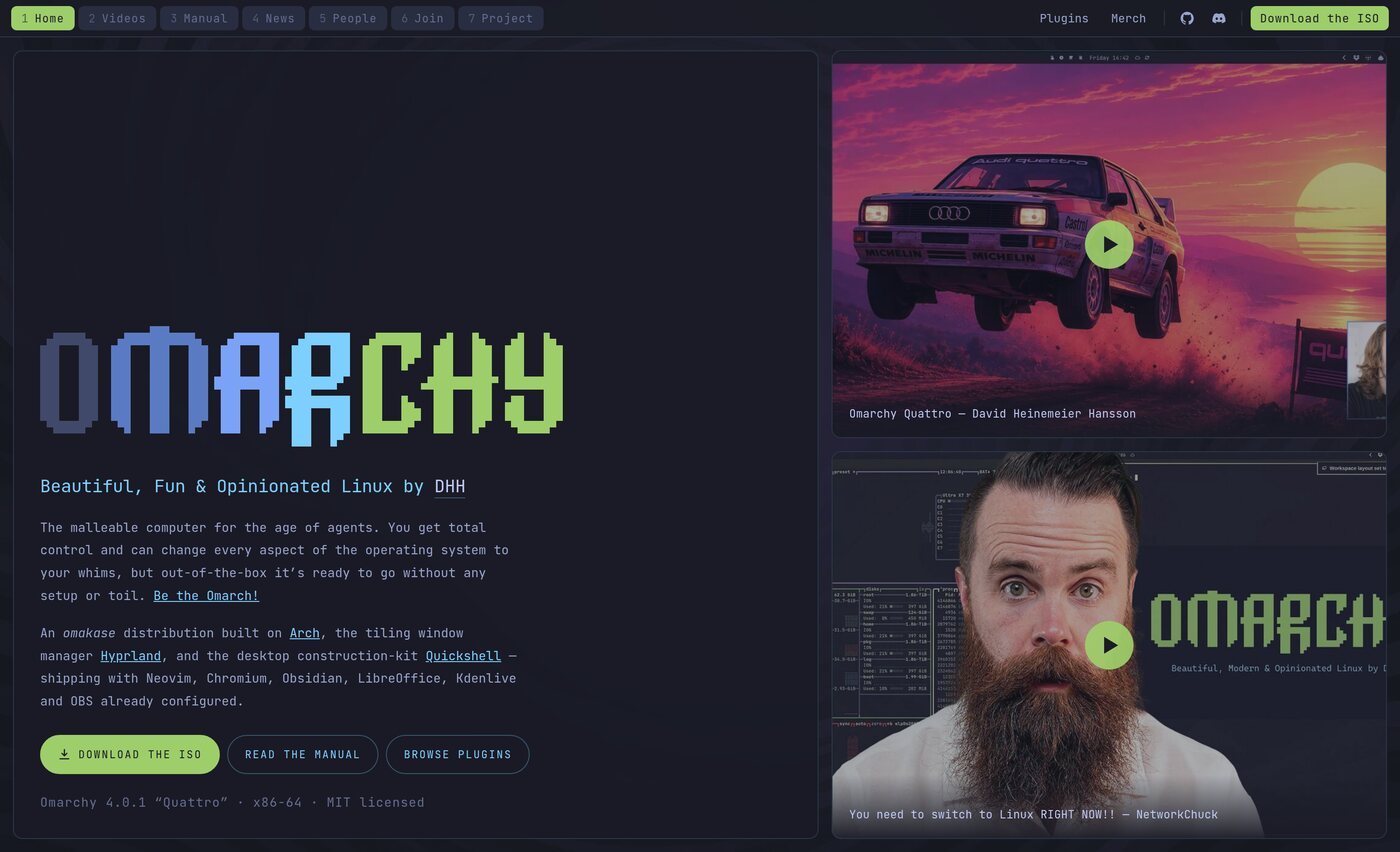
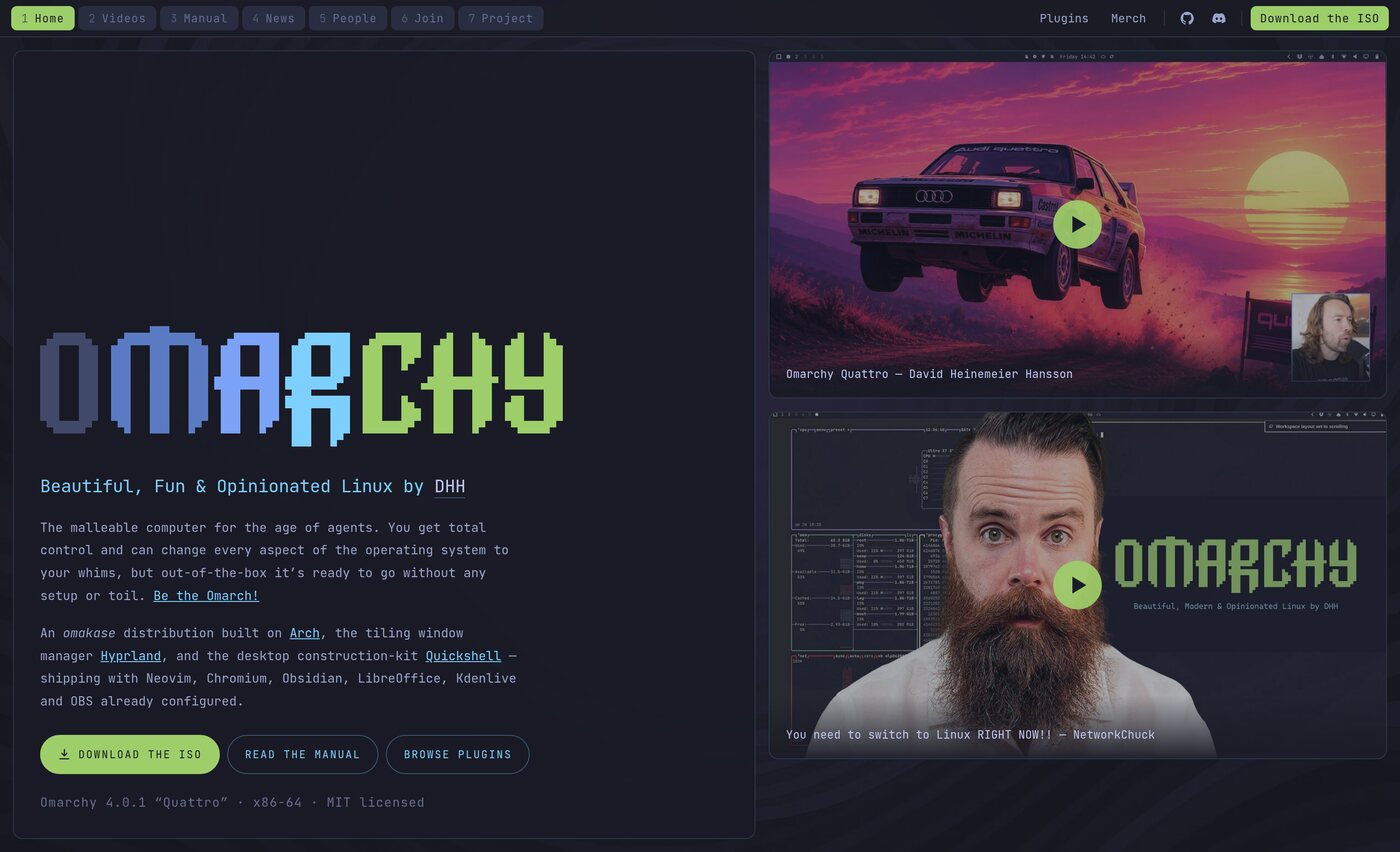
Home videos keep their 16:9 instead of being cropped
The panes were 2.8:1 against 16:9 thumbnails, so object-fit:cover was cutting
36% off the top and bottom of both. The videos now stack in their own column
with an explicit aspect ratio, and the hero fills beside them rather than
dictating their height.

Changed region(s): [[0.5221, 0.061, 1.0, 1.0], [0.9521, 0.5493, 0.9829, 0.5798]]

diff --git a/index.html b/index.html
@@ -54,7 +54,7 @@
 <!-- ======================= 1 · HOME ======================= -->
 <section class="workspace on" id="ws-home" data-ws="home">
 
-  <article class="win hero" style="grid-row:span 2">
+  <article class="win hero">
     <h1 class="mark"><svg class="bigmark" viewBox="0 0 4131 950" role="img" aria-label="Omarchy" shape-rendering="crispEdges"><g fill="var(--mk-1)"><rect x="102" y="50" width="255" height="50"/><rect x="51" y="100" width="357" height="50"/><rect x="0" y="150" width="153" height="50"/><rect x="306" y="150" width="153" height="50"/><rect x="0" y="200" width="153" height="50"/><rect x="306" y="200" width="153" height="50"/><rect x="0" y="250" width="153" height="50"/><rect x="306" y="250" width="153" height="50"/><rect x="0" y="300" width="153" height="50"/><rect x="306" y="300" width="153" height="50"/><rect x="0" y="350" width="153" height="50"/><rect x="306" y="350" width="153" height="50"/><rect x="0" y="400" width="153" height="50"/><rect x="306" y="400" width="153" height="50"/><rect x="0" y="450" width="153" height="50"/><rect x="306" y="450" width="153" height="50"/><rect x="0" y="500" width="153" height="50"/><rect x="306" y="500" width="153" height="50"/><rect x="0" y="550" width="153" height="50"/><rect x="306" y="550" width="153" height="50"/><rect x="0" y="600" width="153" height="50"/><rect x="306" y="600" width="153" height="50"/><rect x="0" y="650" width="153" height="50"/><rect x="306" y="650" width="153" height="50"/><rect x="0" y="700" width="153" height="50"/><rect x="306" y="700" width="153" height="50"/><rect x="51" y="750" width="357" height="50"/><rect x="102" y="800" width="255" height="50"/></g><g fill="var(--mk-2)"><rect x="867" y="0" width="153" height="50"/><rect x="663" y="50" width="561" height="50"/><rect x="612" y="100" width="663" height="50"/><rect x="561" y="150" width="153" height="50"/><rect x="867" y="150" width="153" height="50"/><rect x="1173" y="150" width="153" height="50"/><rect x="561" y="200" width="153" height="50"/><rect x="867" y="200" width="153" height="50"/><rect x="1173" y="200" width="153" height="50"/><rect x="561" y="250" width="153" height="50"/><rect x="867" y="250" width="153" height="50"/><rect x="1173" y="250" width="153" height="50"/><rect x="561" y="300" width="153" height="50"/><rect x="867" y="300" width="153" height="50"/><rect x="1173" y="300" width="153" height="50"/><rect x="561" y="350" width="153" height="50"/><rect x="867" y="350" width="153" height="50"/><rect x="1173" y="350" width="153" height="50"/><rect x="561" y="400" width="153" height="50"/><rect x="867" y="400" width="153" height="50"/><rect x="1173" y="400" width="153" height="50"/><rect x="561" y="450" width="153" height="50"/><rect x="867" y="450" width="153" height="50"/><rect x="1173" y="450" width="153" height="50"/><rect x="561" y="500" width="153" height="50"/><rect x="867" y="500" width="153" height="50"/><rect x="1173" y="500" width="153" height="50"/><rect x="561" y="550" width="153" height="50"/><rect x="867" y="550" width="153" height="50"/><rect x="1173" y="550" width="153" height="50"/><rect x="561" y="600" width="153" height="50"/><rect x="867" y="600" width="153" height="50"/><rect x="1173" y="600" width="153" height="50"/><rect x="561" y="650" width="153" height="50"/><rect x="867" y="650" width="153" height="50"/><rect x="1173" y="650" width="153" height="50"/><rect x="561" y="700" width="153" height="50"/><rect x="867" y="700" width="153" height="50"/><rect x="1173" y="700" width="153" height="50"/><rect x="612" y="750" width="102" height="50"/><rect x="867" y="750" width="153" height="50"/><rect x="1173" y="750" width="102" height="50"/><rect x="663" y="800" width="51" height="50"/><rect x="867" y="800" width="153" height="50"/><rect x="1173" y="800" width="51" height="50"/></g><g fill="var(--mk-3)"><rect x="1530" y="50" width="357" height="50"/><rect x="1479" y="100" width="408" height="50"/><rect x="1428" y="150" width="153" height="50"/><rect x="1734" y="150" width="153" height="50"/><rect x="1428" y="200" width="153" height="50"/><rect x="1734" y="200" width="153" height="50"/><rect x="1428" y="250" width="153" height="50"/><rect x="1734" y="250" width="153" height="50"/><rect x="1428" y="300" width="153" height="50"/><rect x="1734" y="300" width="153" height="50"/><rect x="1428" y="350" width="153" height="50"/><rect x="1734" y="350" width="153" height="50"/><rect x="1377" y="400" width="510" height="50"/><rect x="1377" y="450" width="510" height="50"/><rect x="1428" y="500" width="153" height="50"/><rect x="1734" y="500" width="153" height="50"/><rect x="1428" y="550" width="153" height="50"/><rect x="1734" y="550" width="153" height="50"/><rect x="1428" y="600" width="153" height="50"/><rect x="1734" y="600" width="153" height="50"/><rect x="1428" y="650" width="153" height="50"/><rect x="1734" y="650" width="153" height="50"/><rect x="1428" y="700" width="153" height="50"/><rect x="1734" y="700" width="153" height="50"/><rect x="1428" y="750" width="153" height="50"/><rect x="1734" y="750" width="102" height="50"/><rect x="1428" y="800" width="153" height="50"/><rect x="1734" y="800" width="51" height="50"/></g><g fill="var(--mk-4)"><rect x="2091" y="50" width="357" height="50"/><rect x="2040" y="100" width="408" height="50"/><rect x="1989" y="150" width="153" height="50"/><rect x="2295" y="150" width="153" height="50"/><rect x="1989" y="200" width="153" height="50"/><rect x="2295" y="200" width="153" height="50"/><rect x="1989" y="250" width="153" height="50"/><rect x="2295" y="250" width="153" height="50"/><rect x="1989" y="300" width="153" height="50"/><rect x="2295" y="300" width="153" height="50"/><rect x="1989" y="350" width="153" height="50"/><rect x="2295" y="350" width="153" height="50"/><rect x="1938" y="400" width="459" height="50"/><rect x="1938" y="450" width="408" height="50"/><rect x="1989" y="500" width="153" height="50"/><rect x="1938" y="550" width="510" height="50"/><rect x="1938" y="600" width="510" height="50"/><rect x="1989" y="650" width="153" height="50"/><rect x="2295" y="650" width="153" height="50"/><rect x="1989" y="700" width="153" height="50"/><rect x="2295" y="700" width="153" height="50"/><rect x="1989" y="750" width="153" height="50"/><rect x="2295" y="750" width="153" height="50"/><rect x="1989" y="800" width="153" height="50"/><rect x="2295" y="800" width="153" height="50"/><rect x="1989" y="850" width="153" height="50"/><rect x="2295" y="850" width="102" height="50"/><rect x="1989" y="900" width="153" height="50"/><rect x="2295" y="900" width="51" height="50"/></g><g fill="var(--mk-5)"><rect x="2652" y="50" width="357" height="50"/><rect x="3213" y="50" width="51" height="50"/><rect x="3417" y="50" width="51" height="50"/><rect x="3774" y="50" width="51" height="50"/><rect x="3978" y="50" width="51" height="50"/><rect x="2601" y="100" width="408" height="50"/><rect x="3162" y="100" width="102" height="50"/><rect x="3417" y="100" width="102" height="50"/><rect x="3723" y="100" width="102" height="50"/><rect x="3978" y="100" width="102" height="50"/><rect x="2550" y="150" width="153" height="50"/><rect x="2856" y="150" width="153" height="50"/><rect x="3111" y="150" width="153" height="50"/><rect x="3417" y="150" width="153" height="50"/><rect x="3672" y="150" width="153" height="50"/><rect x="3978" y="150" width="153" height="50"/><rect x="2550" y="200" width="153" height="50"/><rect x="2856" y="200" width="153" height="50"/><rect x="3111" y="200" width="153" height="50"/><rect x="3417" y="200" width="153" height="50"/><rect x="3672" y="200" width="153" height="50"/><rect x="3978" y="200" width="153" height="50"/><rect x="2550" y="250" width="153" height="50"/><rect x="2856" y="250" width="102" height="50"/><rect x="3111" y="250" width="153" height="50"/><rect x="3417" y="250" width="153" height="50"/><rect x="3672" y="250" width="153" height="50"/><rect x="3978" y="250" width="153" height="50"/><rect x="2550" y="300" width="153" height="50"/><rect x="2856" y="300" width="51" height="50"/><rect x="3111" y="300" width="153" height="50"/><rect x="3417" y="300" width="153" height="50"/><rect x="3672" y="300" width="153" height="50"/><rect x="3978" y="300" width="153" height="50"/><rect x="2550" y="350" width="153" height="50"/><rect x="3111" y="350" width="153" height="50"/><rect x="3417" y="350" width="153" height="50"/><rect x="3672" y="350" width="153" height="50"/><rect x="3978" y="350" width="153" height="50"/><rect x="2550" y="400" width="153" height="50"/><rect x="3060" y="400" width="561" height="50"/><rect x="3672" y="400" width="459" height="50"/><rect x="2550" y="450" width="153" height="50"/><rect x="3009" y="450" width="561" height="50"/><rect x="3672" y="450" width="459" height="50"/><rect x="2550" y="500" width="153" height="50"/><rect x="3111" y="500" width="153" height="50"/><rect x="3417" y="500" width="153" height="50"/><rect x="3978" y="500" width="153" height="50"/><rect x="2550" y="550" width="153" height="50"/><rect x="2856" y="550" width="51" height="50"/><rect x="3111" y="550" width="153" height="50"/><rect x="3417" y="550" width="153" height="50"/><rect x="3723" y="550" width="102" height="50"/><rect x="3978" y="550" width="153" height="50"/><rect x="2550" y="600" width="153" height="50"/><rect x="2856" y="600" width="102" height="50"/><rect x="3111" y="600" width="153" height="50"/><rect x="3417" y="600" width="153" height="50"/><rect x="3672" y="600" width="153" height="50"/><rect x="3978" y="600" width="153" height="50"/><rect x="2550" y="650" width="153" height="50"/><rect x="2856" y="650" width="153" height="50"/><rect x="3111" y="650" width="153" height="50"/><rect x="3417" y="650" width="153" height="50"/><rect x="3672" y="650" width="153" height="50"/><rect x="3978" y="650" width="153" height="50"/><rect x="2550" y="700" width="153" height="50"/><rect x="2856" y="700" width="153" height="50"/><rect x="3111" y="700" width="153" height="50"/><rect x="3417" y="700" width="153" height="50"/><rect x="3672" y="700" width="153" height="50"/><rect x="3978" y="700" width="153" height="50"/><rect x="2550" y="750" width="408" height="50"/><rect x="3111" y="750" width="153" height="50"/><rect x="3417" y="750" width="102" height="50"/><rect x="3723" y="750" width="357" height="50"/><rect x="2550" y="800" width="357" height="50"/><rect x="3111" y="800" width="153" height="50"/><rect x="3417" y="800" width="51" height="50"/><rect x="3774" y="800" width="255" height="50"/></g></svg>
       </h1>
     <p class="tagline">Beautiful, Fun &amp; Opinionated Linux by <a href="https://dhh.dk">DHH</a></p>
@@ -83,21 +83,23 @@
 
   </article>
 
-  <article class="win flush">
-    <button class="video" type="button" data-video="F7fe9pa8OeE">
-      <img src="assets/img/video-intro.jpg" alt="" loading="lazy">
-      <span class="play"></span>
-      <span class="cap">Omarchy Quattro &mdash; David Heinemeier Hansson</span>
-    </button>
-  </article>
+  <div class="vstack">
+      <article class="win flush">
+        <button class="video" type="button" data-video="F7fe9pa8OeE">
+          <img src="assets/img/video-intro.jpg" alt="" loading="lazy">
+          <span class="play"></span>
+          <span class="cap">Omarchy Quattro &mdash; David Heinemeier Hansson</span>
+        </button>
+      </article>
 
-  <article class="win flush">
-    <button class="video" type="button" data-video="9SDkU5VDQEQ">
-      <img src="assets/img/video-networkchuck.jpg" alt="" loading="lazy">
-      <span class="play"></span>
-      <span class="cap">You need to switch to Linux RIGHT NOW!! &mdash; NetworkChuck</span>
-    </button>
-  </article>
+      <article class="win flush">
+        <button class="video" type="button" data-video="9SDkU5VDQEQ">
+          <img src="assets/img/video-networkchuck.jpg" alt="" loading="lazy">
+          <span class="play"></span>
+          <span class="cap">You need to switch to Linux RIGHT NOW!! &mdash; NetworkChuck</span>
+        </button>
+      </article>
+  </div>
 </section>
 
 <!-- ======================= 2 · VIDEOS ======================= -->

diff --git a/assets/css/shell.css b/assets/css/shell.css
@@ -161,7 +161,7 @@ a{color:inherit}
 .workspace.scroll::-webkit-scrollbar-thumb{background:var(--plum);border-radius:11px;border:3px solid transparent;background-clip:content-box}
 .workspace.scroll::-webkit-scrollbar-track{background:transparent}
 
-#ws-home     {grid-template-columns:1.45fr 1fr;grid-template-rows:1fr 1fr}
+#ws-home     {grid-template-columns:1.2fr 1fr}
 #ws-manual   {grid-template-columns:minmax(0,300px) minmax(0,1fr)}
 #ws-news     {grid-template-columns:1.35fr 1fr}
 #ws-videos   {grid-template-columns:1fr}
@@ -186,6 +186,10 @@ a{color:inherit}
 
 /* only the fixed home workspace clips its panes to the viewport */
 #ws-home .win{display:flex;flex-direction:column;min-height:0}
+/* videos keep their own 16:9 so no thumbnail is ever cropped; the hero fills
+   the column beside them rather than dictating their height */
+.vstack{display:flex;flex-direction:column;gap:var(--gap);min-height:0}
+.vstack .win.flush{aspect-ratio:16/9;flex:none}
 /* the home workspace is fixed-height; scroll rather than clip on short viewports */
 #ws-home .win.hero{overflow-y:auto}
 
